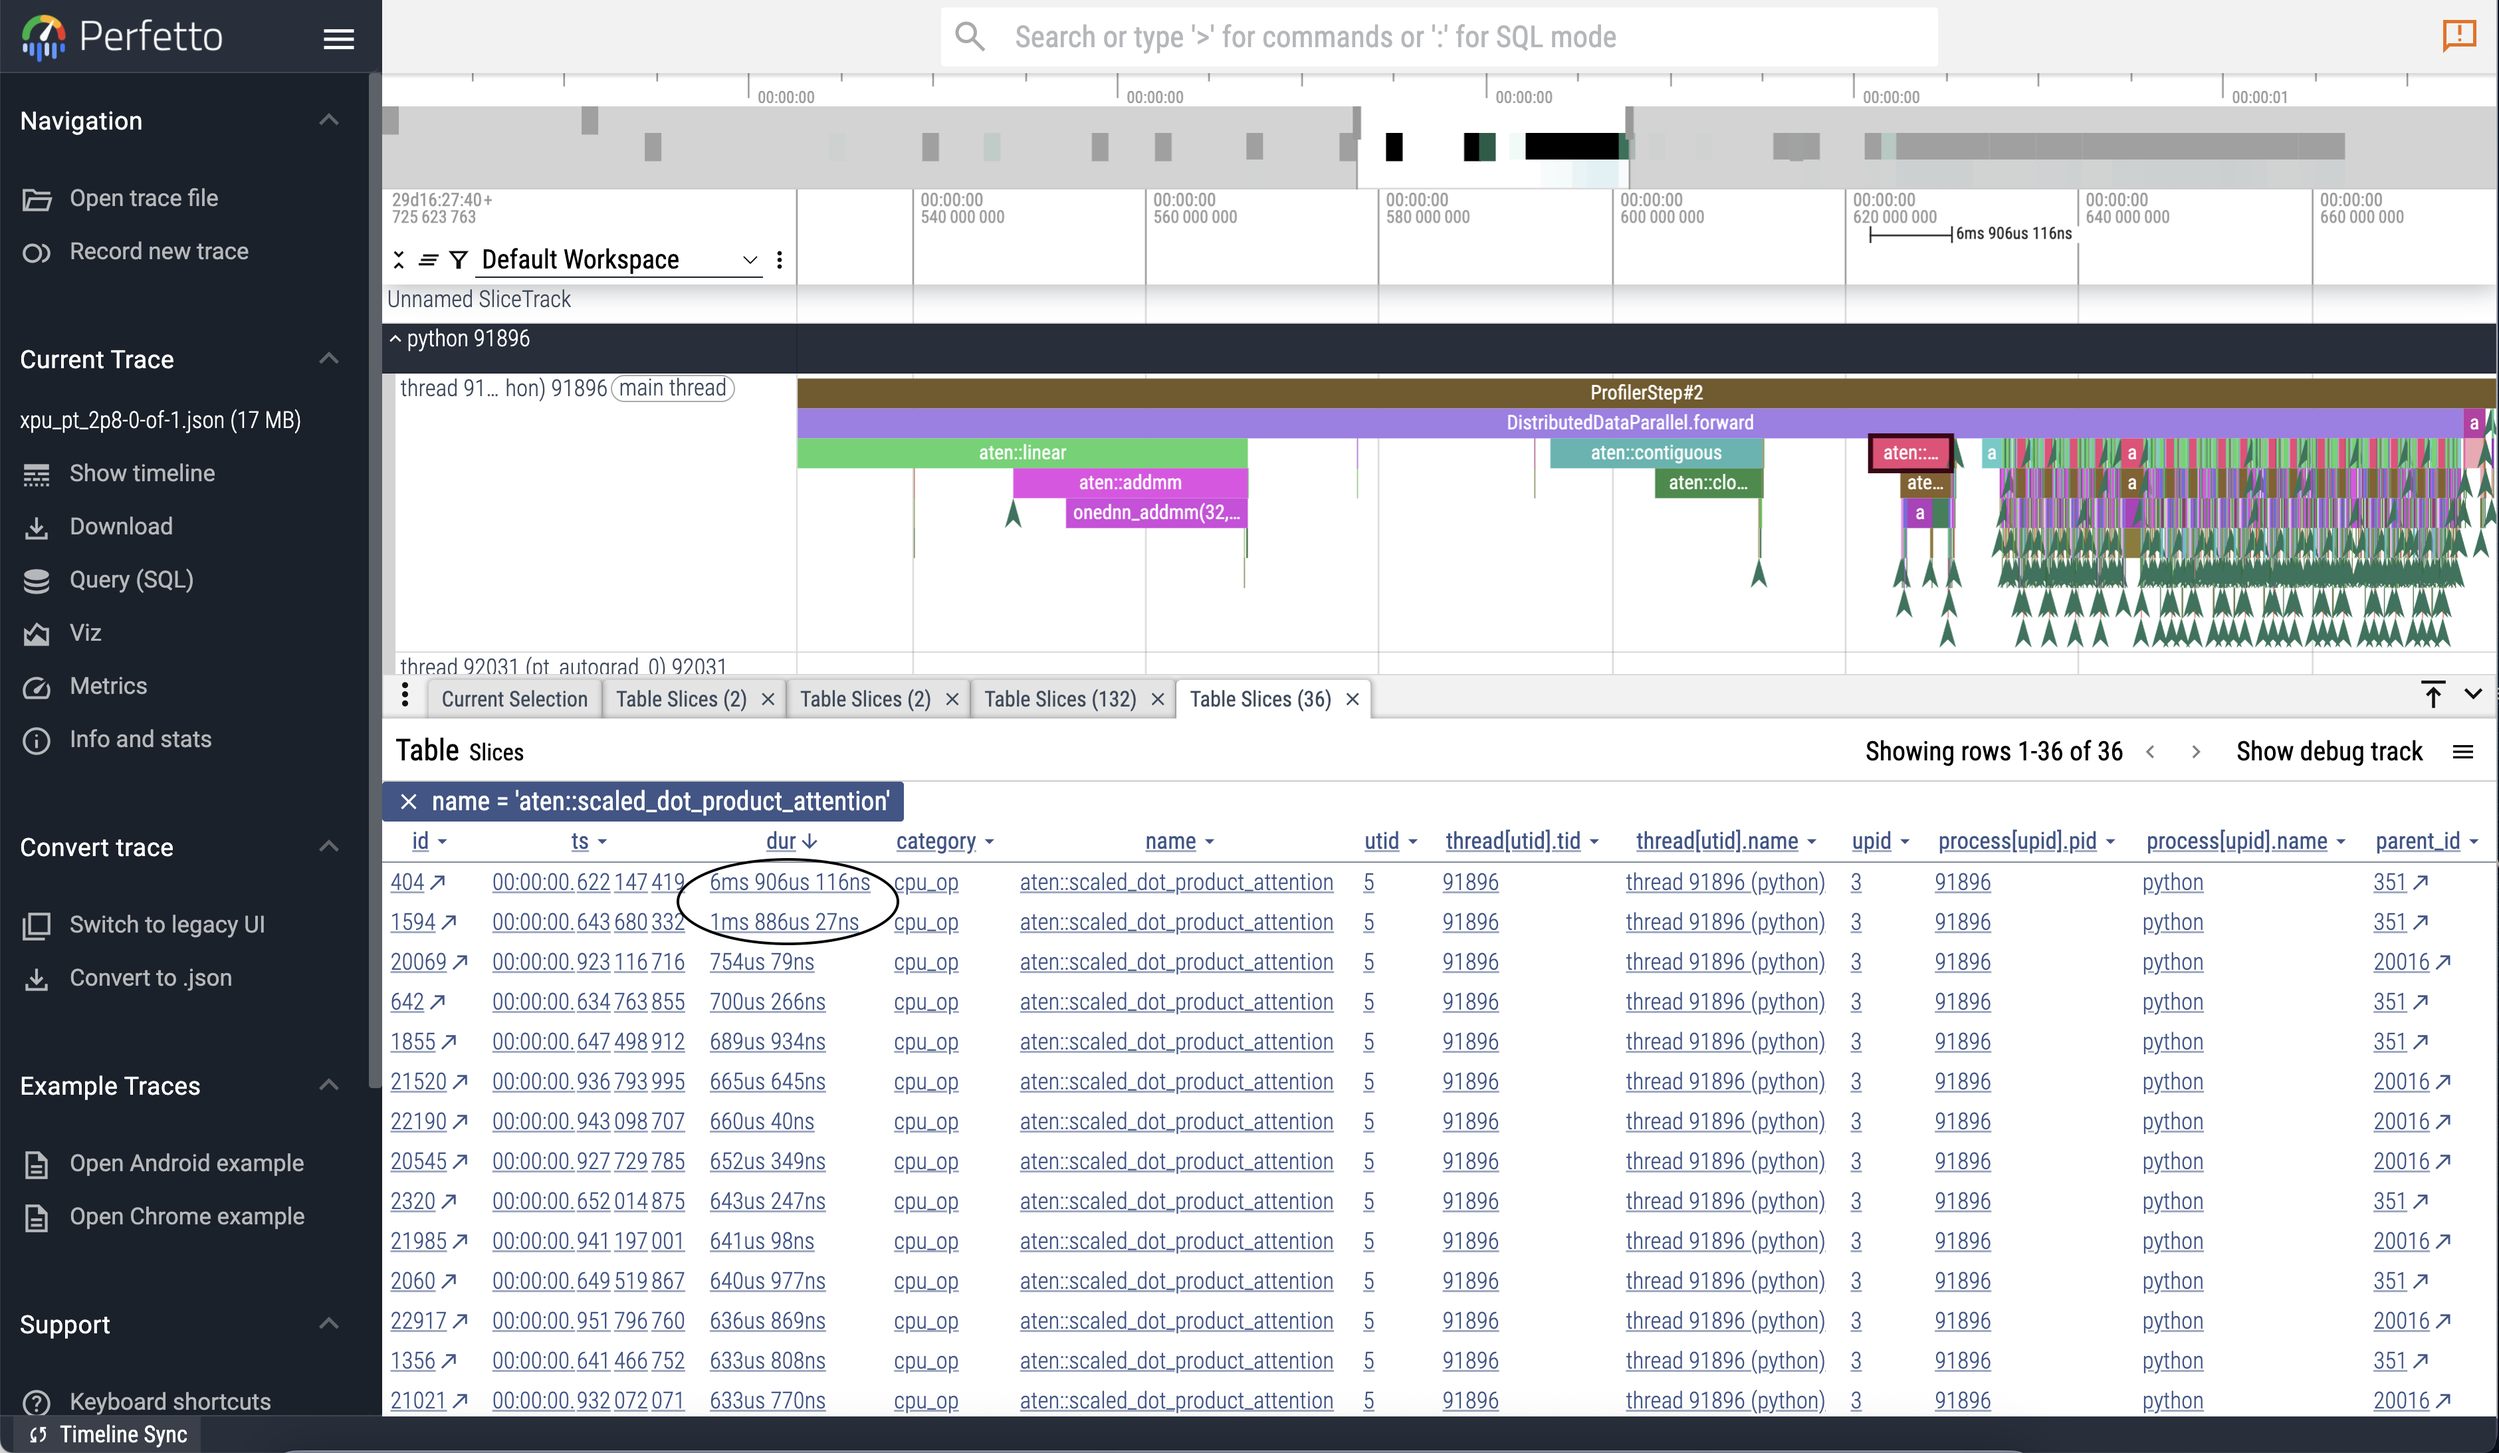
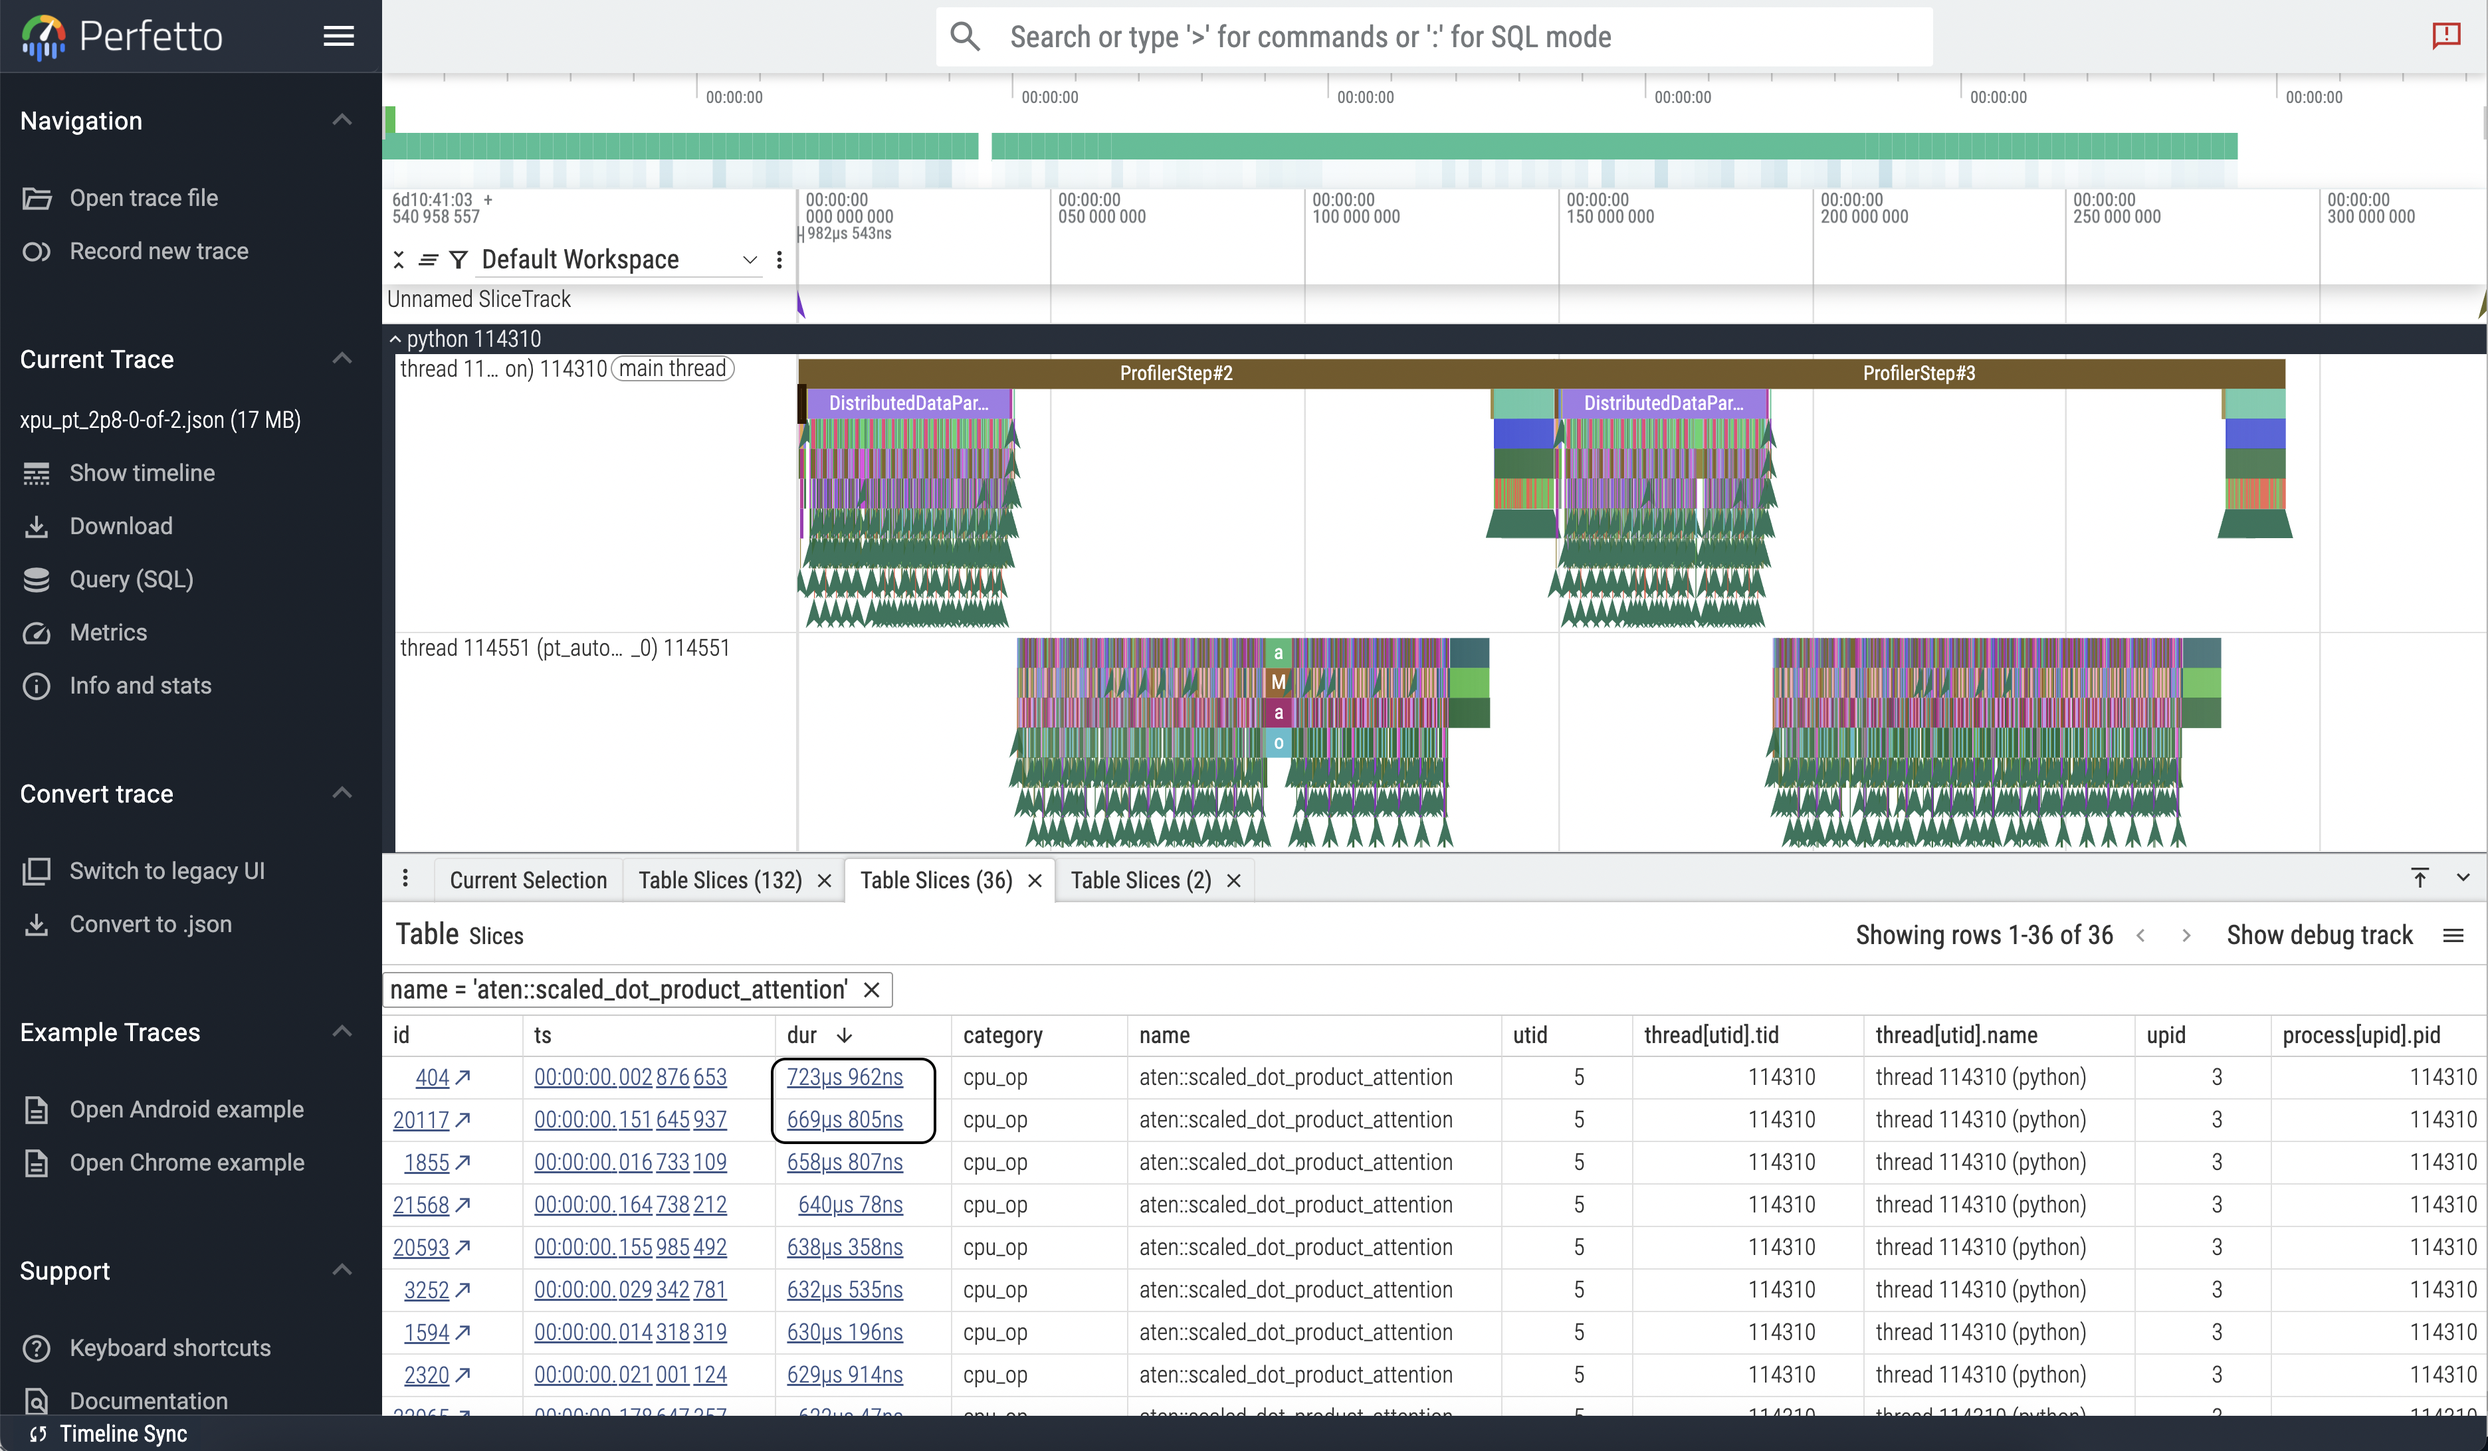
Added new figures, modified text based on new profiles

diff --git a/data_science/ai_ml_profiling/profiling_pytorch.md b/data_science/ai_ml_profiling/profiling_pytorch.md
@@ -74,11 +74,11 @@ _Note_: The `filesystems=home:flare` is necessary, because the `conda`
 environment is coming from a world-readable location in `/lus/flare`
 
 On the compute node, then from the inside of the 
-`ATPESC_MachineLearning/01advanced_profiling_deep_learning` directory we can
+`ALCF_Hands_on_HPC_Workshop/data_science/ai_ml_profiling` directory we can
 activate the `conda` environment
 
 ```bash
-source atpesc_2025_pytorch_2p8.env
+source hpc_hands_on_2025_pytorch_2p8.env
 export ZE_FLAT_DEVICE_HIERARCHY=FLAT ## Displays each 'tile' as a 'device'
 
 Python 3.10.18 | packaged by conda-forge | (main, Jun  4 2025, 14:45:41) [GCC 13.3.0] on linux
@@ -380,7 +380,8 @@ N ## Number of total ranks
 
 PPN ## Number of ranks per node
 ```
-For profiles shown here, I used `N=1, PPN=1`. I have tested the code to run and
+For profiles shown here, I used `N=2, PPN=2` and displayed the results for the 
+Rank 0 in each case. I have tested the code to run and
 profile up to 12 ranks per node, in 2 nodes. The code is set up to run at any 
 scale, _profiling can be challenging beyond a certain point because of resource 
 limitations_.
@@ -400,16 +401,23 @@ active.
 And, the timeline trace from the compiled model looks like:
 ![JIT Compiled Trace](./figures/xpu_compile_1.png)
 
-In the compiled trace, two important features are
+At a first glance the traces look very similar! But looking a bit closely to 
+the execution times of important kernels shows the consistency of execution in
+the compiled mode.
 
-- The consistency in execution of the two profiler steps. They are very similar
-in time span
-- The data-loading becomes faster in the second step, whereas it takes one more
-step for the non-compiled compute graph to offer similar execution time. This 
-is more likely to be compensated in the first iteration, where the compilation
-is happening. We do not record that step here -- would be interesting to see
-the execution time for the first step, but it is quite common to skip the first
-step when analyzing the execution pattern of an AI/ML application.
+As an example, the longest a `linear layer` kernel execution takes in the eager
+mode is ~1.5 ms, and the fastest is ~146 us. The difference is ~1.3 ms. 
+Whereas, the same in the compiled mode is ~710 us. 
+
+The data-loading becomes noticeably faster in the 3rd step of the compiled mode, 
+whereas it is quite close (~60 us) to the non-compiled compute graph in the 2nd 
+step. This is more likely to be compensated in the first iteration, 
+where the compilation is happening. We do not record that step here -- would be 
+interesting to see the execution time for the first step, but it is quite 
+common to skip the first
+step when analyzing the execution pattern of an AI/ML application. For really 
+long training runs, the signs are encouraging in the sense that in the compiled
+mode the data loading time becoming smaller in each step.
 
 One of the useful features of the perfetto viewer is collecting the slices with
 the same name and being able to sort them. If we click on a colored box, and 
@@ -426,11 +434,11 @@ For example, if we look at two important functions, the `linear layer` and the
 ![Attention Compile](./figures/attention_compile.png)
 
 We see that, the highest duration call of `Attention` in the modes are 
-different by ~5 ms, compiled being lower.
+different by ~25 us, eager being lower.
 
 Whereas, in the case of the `linear layer`, the highest duration call in the 
-eager mode is ~48 ms vs ~2 ms!! But the subsequent calls are almost ~2x higher 
-in the compiled case (~700 ms vs. ~310 ms). 
+eager mode is ~1.5 ms vs ~856 us!! And the lowest recorded call is ~146 us, 
+very close to each other. 
 
 ![Linear Eager](./figures/linear_eager.png)
 
@@ -439,7 +447,10 @@ in the compiled case (~700 ms vs. ~310 ms).
 Therefore, it is difficult to give a fixed strategy, at least for our "toy" use
 case. But from our experiments, we could see a more consistent execution times
 and patterns from the compiled case. For a real life workload, extensive 
-experimentation will be needed to device the optimal training strategy.
+experimentation will be needed to device the optimal training strategy. The 
+take home message would be to be aware that compile could bring extra 
+performance benefits for specific type of kernel execution, may not be 
+beneficial across the board. 
 
 ### An Exercise
 
